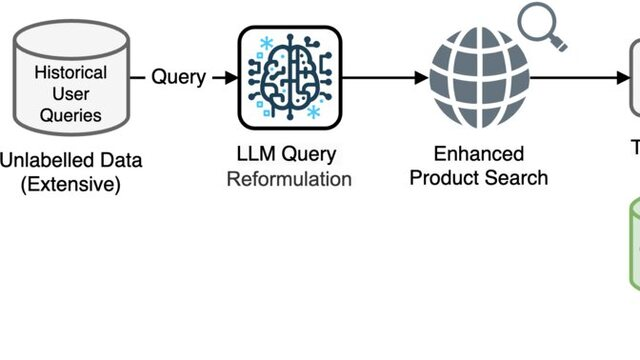
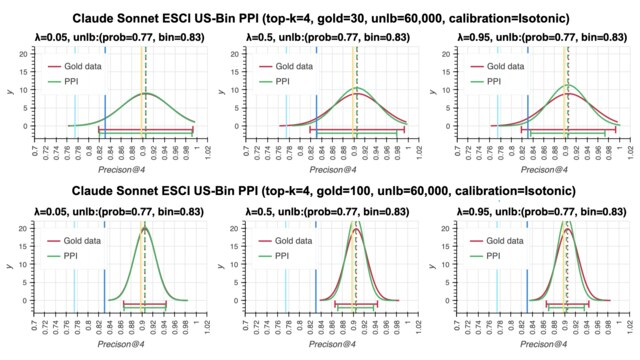
PRECISE result figure, ICCCS Oral badge restored, dated work history, mint page with a raised tab bar, and a Copy for LLM button that copies llms.txt

Changed region(s): [[0.0, 0.0, 1.0, 0.9778]]

diff --git a/_sass/_home.scss b/_sass/_home.scss
@@ -9,8 +9,8 @@ $ink-2: #3f3f46;        // secondary text
 $ink-3: #5b5b64;        // tertiary / meta
 $line: #e4e4e7;         // cool hairline
 $surface: #ffffff;      // cards
-$page: #f4f4f5;         // cool stone, neither blue nor parchment
-$tint: #f4f4f5;
+$page: #eaf2ee;         // soft mint, paired with the teal accent
+$tint: #f1f6f3;
 $accent: #0f6e56;       // deep teal
 $accent-ink: #0b5344;
 $hover: #f4f4f5;        // light grey, never black
@@ -57,6 +57,14 @@ $serif: "Source Serif 4", "Serif Fallback", Georgia, serif;
 }
 .home .icon-links a svg { width: 18px; height: 18px; color: $accent; }
 .home .icon-links a:hover { color: $accent-ink; text-decoration: underline; text-underline-offset: 4px; }
+.llm-copy {
+  display: inline-flex; align-items: center; gap: 7px; height: 32px; padding: 0 14px;
+  border: 1px solid #b7ddd2; border-radius: 999px; background: #eef7f4; color: $accent-ink;
+  font: inherit; font-size: 14px; font-weight: 600; cursor: pointer;
+  transition: background .12s ease, border-color .12s ease;
+}
+.llm-copy svg { width: 16px; height: 16px; }
+.llm-copy:hover { background: #dcefe7; border-color: #9ccfbf; }
 
 /* ---- Section headings: one plain heading, no eyebrows or numbers ---------- */
 .home-section { margin: 0 0 48px; }
@@ -131,7 +139,7 @@ $serif: "Source Serif 4", "Serif Fallback", Georgia, serif;
 .prow__thumb-ph {
   display: flex; height: 100%; align-items: center; justify-content: center; padding: 12px; text-align: center;
   font-family: $serif; font-size: 22px; line-height: 1.15; color: $ink-2;
-  background: linear-gradient(135deg, $tint, #f8f6f3);
+  background: linear-gradient(135deg, $tint, #ffffff);
 }
 .prow__body { min-width: 0; }
 .prow__venue { margin: 0 0 4px; font-size: 14px; font-weight: 600; letter-spacing: 0.04em; text-transform: none; color: $ink-3; }
@@ -230,16 +238,17 @@ $serif: "Source Serif 4", "Serif Fallback", Georgia, serif;
   position: sticky; top: 57px; z-index: 10;
   display: flex; flex-wrap: wrap; justify-content: center; gap: 4px;
   margin: 28px auto 36px; padding: 4px; width: fit-content; max-width: 100%;
-  background: rgba(244, 244, 245, 0.94); backdrop-filter: blur(8px); -webkit-backdrop-filter: blur(8px);
-  border: 1px solid $line; border-radius: 999px;
+  background: rgba(255, 255, 255, 0.92); backdrop-filter: blur(8px); -webkit-backdrop-filter: blur(8px);
+  border: 1px solid #d3e2db; border-radius: 999px;
+  box-shadow: 0 6px 18px rgba(15, 110, 86, 0.10), 0 1px 2px rgba(24, 24, 27, 0.06);
 }
 .tab {
   display: inline-flex; align-items: center; height: 36px; padding: 0 16px; border-radius: 999px;
   font-size: 14px; font-weight: 500; color: $ink-2 !important; text-decoration: none !important; white-space: nowrap;
   transition: background .12s ease, color .12s ease;
 }
-.tab:hover { background: $surface; color: $ink !important; box-shadow: 0 1px 2px rgba(16, 24, 40, 0.08); }
-.tab.is-current { background: $surface; color: $ink !important; box-shadow: 0 1px 2px rgba(24, 24, 27, 0.08); }
+.tab:hover { background: #eef6f2; color: $ink !important; }
+.tab.is-current { background: #dcefe7; color: $accent-ink !important; font-weight: 600; }
 
 .spage__body { max-width: 693px; margin: 0 auto; font-size: 16px; line-height: 1.65; }
 .spage__body > h2, .spage__body h2 {
@@ -260,7 +269,7 @@ $serif: "Source Serif 4", "Serif Fallback", Georgia, serif;
 body { background: $page; color: $ink; }
 .masthead {
   position: sticky; top: 0; z-index: 20;
-  background: rgba(244, 244, 245, 0.92); backdrop-filter: saturate(180%) blur(10px);
+  background: rgba(234, 242, 238, 0.9); backdrop-filter: saturate(180%) blur(10px);
   -webkit-backdrop-filter: saturate(180%) blur(10px); border-bottom: 1px solid $line;
 }
 .greedy-nav { background: transparent; min-height: 56px; }
@@ -347,7 +356,7 @@ body { background: $page; color: $ink; }
 .talk-stage__photo { object-fit: cover; }
 .talk-stage__photo--contain { object-fit: contain; background: #fff; padding: 16px; }
 .talk-stage__ph { display: flex; height: 100%; align-items: center; justify-content: center; padding: 24px; text-align: center;
-  font-family: $serif; font-size: 26px; color: $ink-2; background: linear-gradient(135deg, $tint, #f8f6f3); }
+  font-family: $serif; font-size: 26px; color: $ink-2; background: linear-gradient(135deg, $tint, #ffffff); }
 .deck { position: absolute; inset: 0; background: #fff; }
 .deck--photos { background: #0f1320; }
 .deck__slide { object-fit: contain; background: transparent; display: none; cursor: pointer; }

diff --git a/assets/js/home.js b/assets/js/home.js
@@ -57,4 +57,31 @@
   }
   window.addEventListener('scroll', updateTab, { passive: true });
   updateTab();
+
+  // "Copy for LLM": fetch llms.txt (the same text AI crawlers read) and copy it.
+  var llm = document.querySelector('.llm-copy');
+  if (llm) {
+    var label = llm.querySelector('.llm-copy__label');
+    var flash = function (text) {
+      label.textContent = text;
+      setTimeout(function () { label.textContent = 'Copy for LLM'; }, 1600);
+    };
+    var copyText = function (text) {
+      if (navigator.clipboard && navigator.clipboard.writeText) return navigator.clipboard.writeText(text);
+      return new Promise(function (resolve) {
+        var area = document.createElement('textarea');
+        area.value = text; area.setAttribute('readonly', '');
+        area.style.position = 'fixed'; area.style.opacity = '0';
+        document.body.appendChild(area); area.select();
+        document.execCommand('copy'); area.remove(); resolve();
+      });
+    };
+    llm.addEventListener('click', function () {
+      fetch(llm.dataset.src, { cache: 'no-store' })
+        .then(function (r) { if (!r.ok) throw new Error(r.status); return r.text(); })
+        .then(copyText)
+        .then(function () { flash('Copied'); })
+        .catch(function () { flash('Copy failed'); });
+    });
+  }
 })();

diff --git a/_includes/home/hero.html b/_includes/home/hero.html
@@ -9,6 +9,10 @@
       <li><a href="{{ p.google_scholar }}" title="Google Scholar" aria-label="Google Scholar">{% include icons/scholar.svg %}<span>Scholar</span></a></li>
       <li><a href="https://github.com/adivekar-utexas" title="GitHub" aria-label="GitHub">{% include icons/github.svg %}<span>GitHub</span></a></li>
       <li><a href="https://www.linkedin.com/in/ardivekar" title="LinkedIn" aria-label="LinkedIn">{% include icons/linkedin.svg %}<span>LinkedIn</span></a></li>
+      <li><button type="button" class="llm-copy" data-src="{{ site.baseurl }}/llms.txt" title="Copy a plain-text summary of this site (llms.txt) to paste into an AI assistant">
+        <svg viewBox="0 0 24 24" width="18" height="18" aria-hidden="true" fill="none" stroke="currentColor" stroke-width="2" stroke-linecap="round" stroke-linejoin="round"><rect x="9" y="9" width="13" height="13" rx="2"/><path d="M5 15H4a2 2 0 0 1-2-2V4a2 2 0 0 1 2-2h9a2 2 0 0 1 2 2v1"/></svg>
+        <span class="llm-copy__label">Copy for LLM</span>
+      </button></li>
     </ul>
   </div>
   <figure class="hero__photo">

diff --git a/_sass/_custom.scss b/_sass/_custom.scss
@@ -4,8 +4,8 @@
    ========================================================================== */
 
 
-body { background: #f4f4f5; color: $text-color; }
-.masthead { background: #f4f4f5; border-bottom: 1px solid #e4e4e7; }
+body { background: #eaf2ee; color: $text-color; }
+.masthead { background: #eaf2ee; border-bottom: 1px solid #d3e2db; }
 .greedy-nav { background: transparent; }
 .greedy-nav a { color: #44403c; font-weight: 500; }
 .greedy-nav a:hover { color: $info-color; }

diff --git a/_publications/2018-10-25-kddcup99-paper.md b/_publications/2018-10-25-kddcup99-paper.md
@@ -11,6 +11,7 @@ excerpt: 'Machine Learning has been steadily gaining traction for its use in Ano
 date: 2018-10-25
 venue: 'IEEE International Conference on Computing, Communication and Security'
 paperurl: 'https://arxiv.org/abs/1811.05372'
+acceptancetype: 'Oral'
 citation: '<u>Abhishek Divekar</u>, Meet Parekh, Vaibhav Savla, Rudra Mishra, and Mahesh Shirole. <b>&quot;Benchmarking datasets for Anomaly-based Network Intrusion Detection: KDD CUP 99 alternatives&quot;</b>. <i>IEEE International Conference on Computing, Communication and Security (ICCCS 2018)</i>'
 thumb: 'kddcup99.jpg'
 pitch: "Shows that classifiers trained on UNSW-NB15 match or beat those trained on the skewed KDD-99 and NSL-KDD benchmarks, making it a modern substitute."
